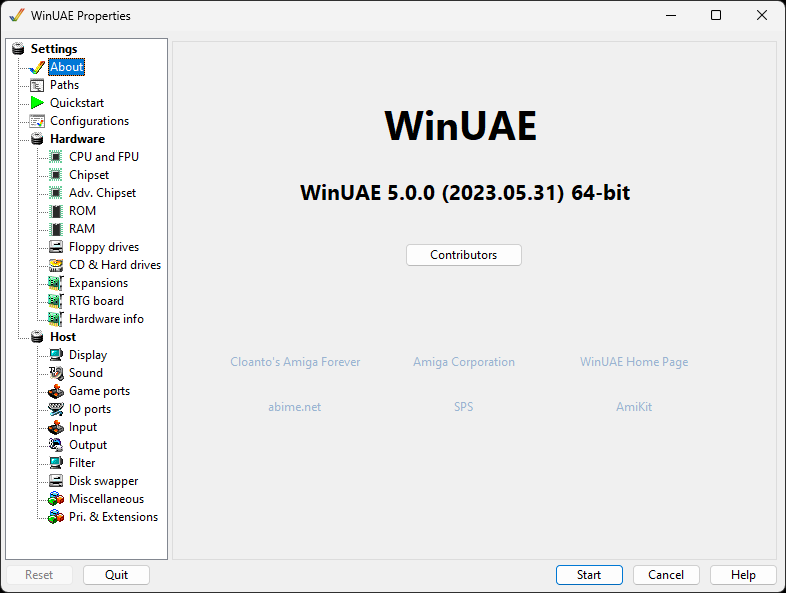
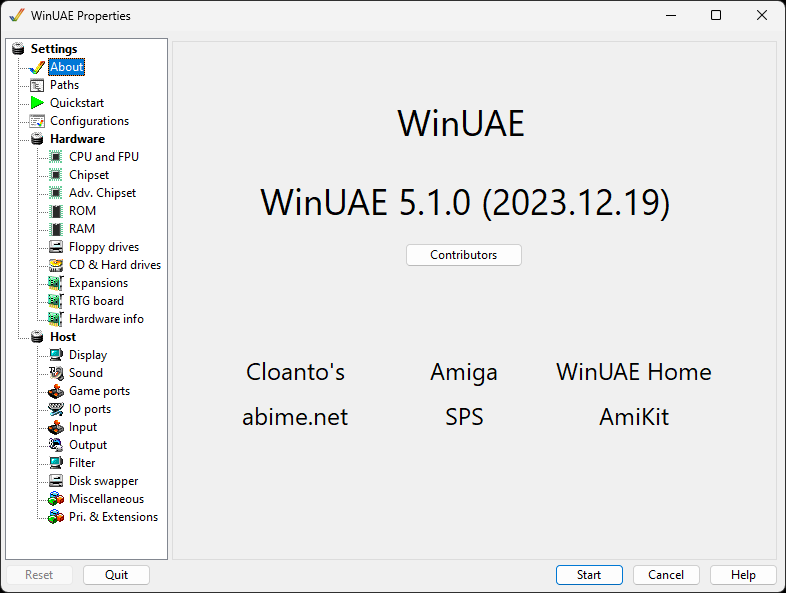
Updated for Winuae 5.1.0

diff --git a/gui/extensions.htm b/gui/extensions.htm
@@ -14,18 +14,25 @@
     WinUAE should have when it's window is active. Depending on
     which other programs are running on the host, this should be
     set to Normal or higher.<br>
-    <strong>Disable keyboard</strong> Disable the keyboard when
-    active.</p>
+    <strong>Pause emulation</strong> Pause the emulation if mouse
+    is uncaptured.<br>
+    <strong>Disabled sound</strong> Disable the sound if mouse is
+    uncaptured.<br>
+    <strong>Disable game controllers</strong> Disable any game
+    controllers if mouse is uncaptured.<br>
+    <strong>Disable keyboard</strong> Disable the keyboard if mouse
+    if mouse is uncaptured.</p>
     <h1>When Inactive</h1>
     <p><strong>Run at priority</strong> Choose which priority
     WinUAE should have when it's window is in the background. To
     save processing time, this should be set to Below Normal or
     lower.<br>
-    <strong>Disable sound</strong> turns off audio output<br>
     <strong>Pause emulation</strong> will completely halt
     emulation<br>
-    <strong>Disable game controllers</strong> will disable inputs
-    from game controllers</p>
+    <strong>Disable sound</strong> turns off audio
+    output<strong><br>
+    Disable game controllers</strong> will disable inputs from game
+    controllers</p>
     <h1>When Minimized</h1>
     <p>These options are identical to the ones in the Inactive
     section, but they only apply when the window has been
@@ -36,7 +43,43 @@
     in the list or using the <strong>Associate all</strong> and
     <strong>Disassociate all</strong> buttons. An asterisk
     indicates that the file extension is associated with
-    WinUAE.</p>
+    WinUAE.<br>
+    <br>
+    These extensions are known by WinUAE:</p>
+    <table>
+      <tr>
+        <th>Extension</th>
+        <th>Explanation</th>
+      </tr>
+      <tr>
+        <td class="fixedwidth">uae</td>
+        <td>Configuration file for WinUAE</td>
+      </tr>
+      <tr>
+        <td class="fixedwidth">adf</td>
+        <td>Amiga disk format image</td>
+      </tr>
+      <tr>
+        <td class="fixedwidth">adz</td>
+        <td>Amiga disk format image compressed</td>
+      </tr>
+      <tr>
+        <td class="fixedwidth">dms</td>
+        <td>Disk masher format image</td>
+      </tr>
+      <tr>
+        <td class="fixedwidth">fdi</td>
+        <td>Floppy disk image</td>
+      </tr>
+      <tr>
+        <td class="fixedwidth">ipf</td>
+        <td>Image preservation format</td>
+      </tr>
+      <tr>
+        <td class="fixedwidth">uss</td>
+        <td>UAE save state file</td>
+      </tr>
+    </table>
   </article>
   <footer>
     Help content is under the terms of the <a href=

diff --git a/gui/paths.htm b/gui/paths.htm
@@ -19,10 +19,7 @@
     <strong>Configuration files</strong> Location of .uae <a href=
     "configurations.htm">configuration</a> files for different
     models or configurations of Amigas.<br>
-    <strong>Cache Configuration files</strong> Cache the
-    configuration files in memory.<br>
-    <strong>Cache Boxart files</strong> Cache the box art and
-    screenshot files.<br>
+    <strong>NVRAM files</strong> Non-Volataile memory files.<br>
     <strong>Screenshots</strong> Saves screenshots of the Amiga
     screen, see the <a href="output.htm">Output</a> tab.<br>
     <strong>State files</strong> Saves memory to a <a href=
@@ -30,14 +27,15 @@
     positions.<br>
     <strong>Videos</strong> Saves <a href="output.htm">video</a>
     output to files here.<br>
-    <strong>Saveimages</strong> Saves ADF floppy images here.<br>
     <strong>Use original image's path</strong> Use the original
     paths for images rather than the Saveimage image path.<br>
+    <strong>Saveimages</strong> Saves ADF floppy images here.<br>
     <strong>Rips</strong> Saves music and sound ripped files
     here.<br>
     <strong>Set Path</strong> Resets changes to all paths back to
     the AmigaForever, WinUAE defaults (User or EXE) or Custom
     paths.<br>
+    <strong>Data path</strong> Path for Winuae data files.<br>
     <strong>Rescan ROMs</strong> Look for Kickstart ROMs on hard
     disk.<br>
     <strong>Clear disk history</strong> Remove history of disks

diff --git a/gui/misc.htm b/gui/misc.htm
@@ -99,7 +99,40 @@
     <strong>A600/A1200/A4000 IDE scsi.device disable</strong>
     Disable onboard IDE scsi.device.<br>
     <strong>Warp mode reset</strong> Auto switches off Warp mode
-    when running a program or KS ROM shows something.</p>
+    when running a program or KS ROM shows something.<br>
+    <strong>GUI gamepad control</strong> Allow control of the GUI
+    via a gamepad<br>
+    Default mapping in the GUI:</p>
+    <table>
+      <tr>
+        <th>Button</th>
+        <th>Explanation</th>
+      </tr>
+      <tr>
+        <td class="fixedwidth">A</td>
+        <td>select or left mouse click</td>
+      </tr>
+      <tr>
+        <td class="fixedwidth">B</td>
+        <td>right mouse click</td>
+      </tr>
+      <tr>
+        <td class="fixedwidth">Y</td>
+        <td>Change active GUI area or TAB key</td>
+      </tr>
+      <tr>
+        <td class="fixedwidth">D-Pad</td>
+        <td>select UI elements</td>
+      </tr>
+      <tr>
+        <td class="fixedwidth">Left stick</td>
+        <td>Move (requires a XInput compatible pad)</td>
+      </tr>
+    </table>
+    <p>Pad button 4 is default mapped to open/close on screen
+    keyboard inuput event.<br>
+    Pad button/d-pad that normally controls Amiga Joystick moves
+    keyboard selection.</p>
     <h1>Miscellaneous Options</h1>
     <p><span><strong>SCSI and CD/DVD access .</strong> Select type
     of <a href="harddrives.htm">ASPI layer</a> to use, e.g. SCSI

diff --git a/gui/filter.htm b/gui/filter.htm
@@ -35,14 +35,17 @@
     distortions.<br>
     <strong>Monitor type</strong> can be Disabled, VGA or TV.</p>
     <h1>Extra Settings</h1>
-    <p>The <strong>Scanline</strong> can be specified as Scanline
-    level or Transparency and ratios from 1:1 to 3:3 and from 0 to
-    100.<br>
+    <p><strong>Point/Bilinear</strong> can be specified, and ratios
+    from 1:1 to 3:3 and from slider from 0 to 1.<br>
+    <strong>Scanline</strong> can be specified as Scanline opacity,
+    level or offset and ratios from 1:1 to 3:3.<br>
     <strong>Scanline Brightness</strong> can be specified from 0 to
     100.</p>
     <h1>Presets</h1>
-    <p>Settings can be saved as a <strong>Preset</strong> if you
-    wish to reuse Filter settings in other configurations.</p>
+    <p>Filter settings can be saved as a <strong>Preset</strong> if
+    you wish to reuse Filter settings in other configurations.<br>
+    Previous saved settings can be <strong>Load</strong>ed or
+    <strong>Deleted,</strong> if not required.</p>
   </article>
   <footer>
     Help content is under the terms of the <a href=

diff --git a/gui/sound.htm b/gui/sound.htm
@@ -28,9 +28,9 @@
     <h1>Volume</h1>
     <p><strong>Master volume</strong>. Set overall volume between
     0% (silent) to 100% (loud).<br>
-    <strong>Paula,CD,AHI Audio</strong>. Set audio from either
-    Paula, direct CD, AHI sound between 0% (silent) to 100% (loud),
-    MIDI Or Genlock.</p>
+    <strong>Paula,CD,AHI Audio, MIDI, Genlock</strong>. Set audio
+    from either Paula, direct CD, AHI sound between 0% (silent) to
+    100% (loud), MIDI Or Genlock.</p>
     <h1>Sound Buffer Size</h1>
     <p>Gives access to the level of the used Direct Sound buffer.
     If sound output is choppy, this should be changed.</p>

diff --git a/gui/rtgboard.htm b/gui/rtgboard.htm
@@ -13,7 +13,8 @@
     1 of 1-4).<br>
     <strong>RTG Graphics Card</strong> to select either of these:
     UAE, A2410, Zorro II, Zorro III, Picasso II, Piccolo, Spectrum
-    EGS-28/24, Picasso IV, x86 Bridgeboard VGA.<br>
+    EGS-28/24, Picasso II, II+, IV, x86 Bridgeboard VGA Cybervision
+    64[/3D], Harlequin, Voodoo 3, Virge, or Pixel 64.<br>
     <strong>VRAM size.</strong> Video ram is for graphics card use
     such as the Picasso96 RTG so that you can use your PC's
     graphics card rather than the custom chips for extra speed.

diff --git a/gui/advchipset.htm b/gui/advchipset.htm
@@ -71,6 +71,8 @@
     of two 512KB chips.<br>
     <strong>KS ROM has Chip RAM speed</strong> Set speed of
     Kickstart ROM to Chip RAM speed.<br>
+    <strong>Power up memory pattern</strong> Chip RAM and Slow RAM
+    power up pattern emulation, enabled by default.<br>
     <strong>Toshiba Gary</strong> - Optional Toshiba Gary (Gate
     Array) slow (chip ram like) Z2 IO.Gary looks after bus control
     and functions for floppy drivers.<br>
